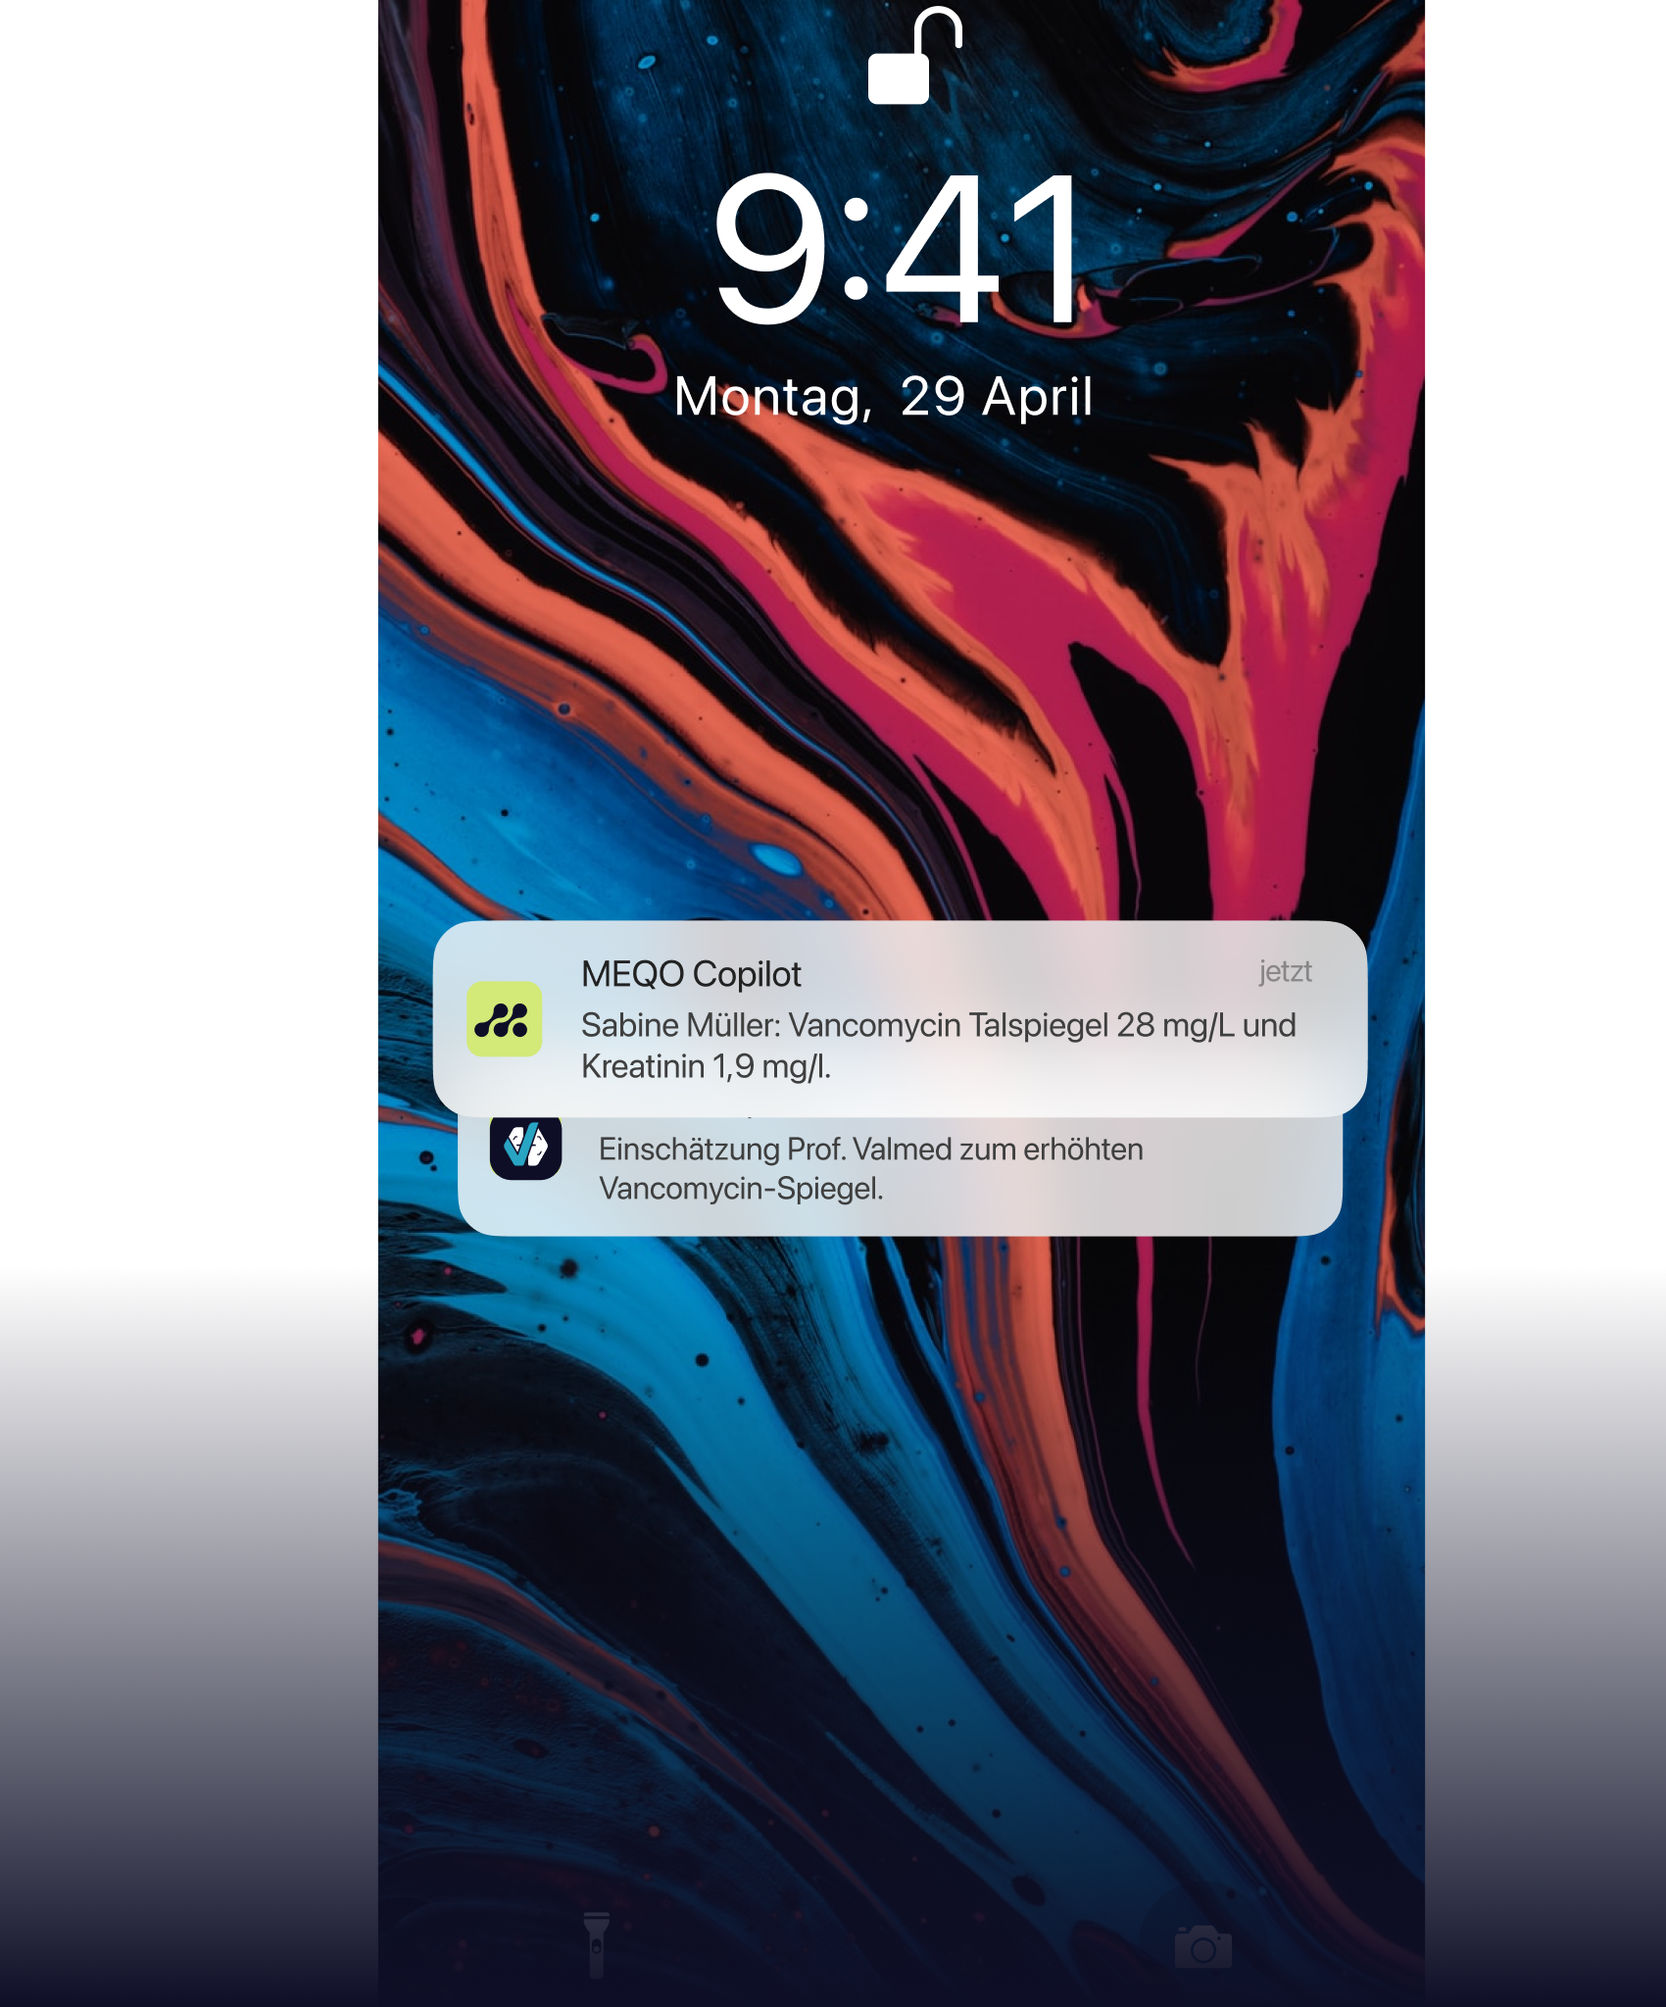
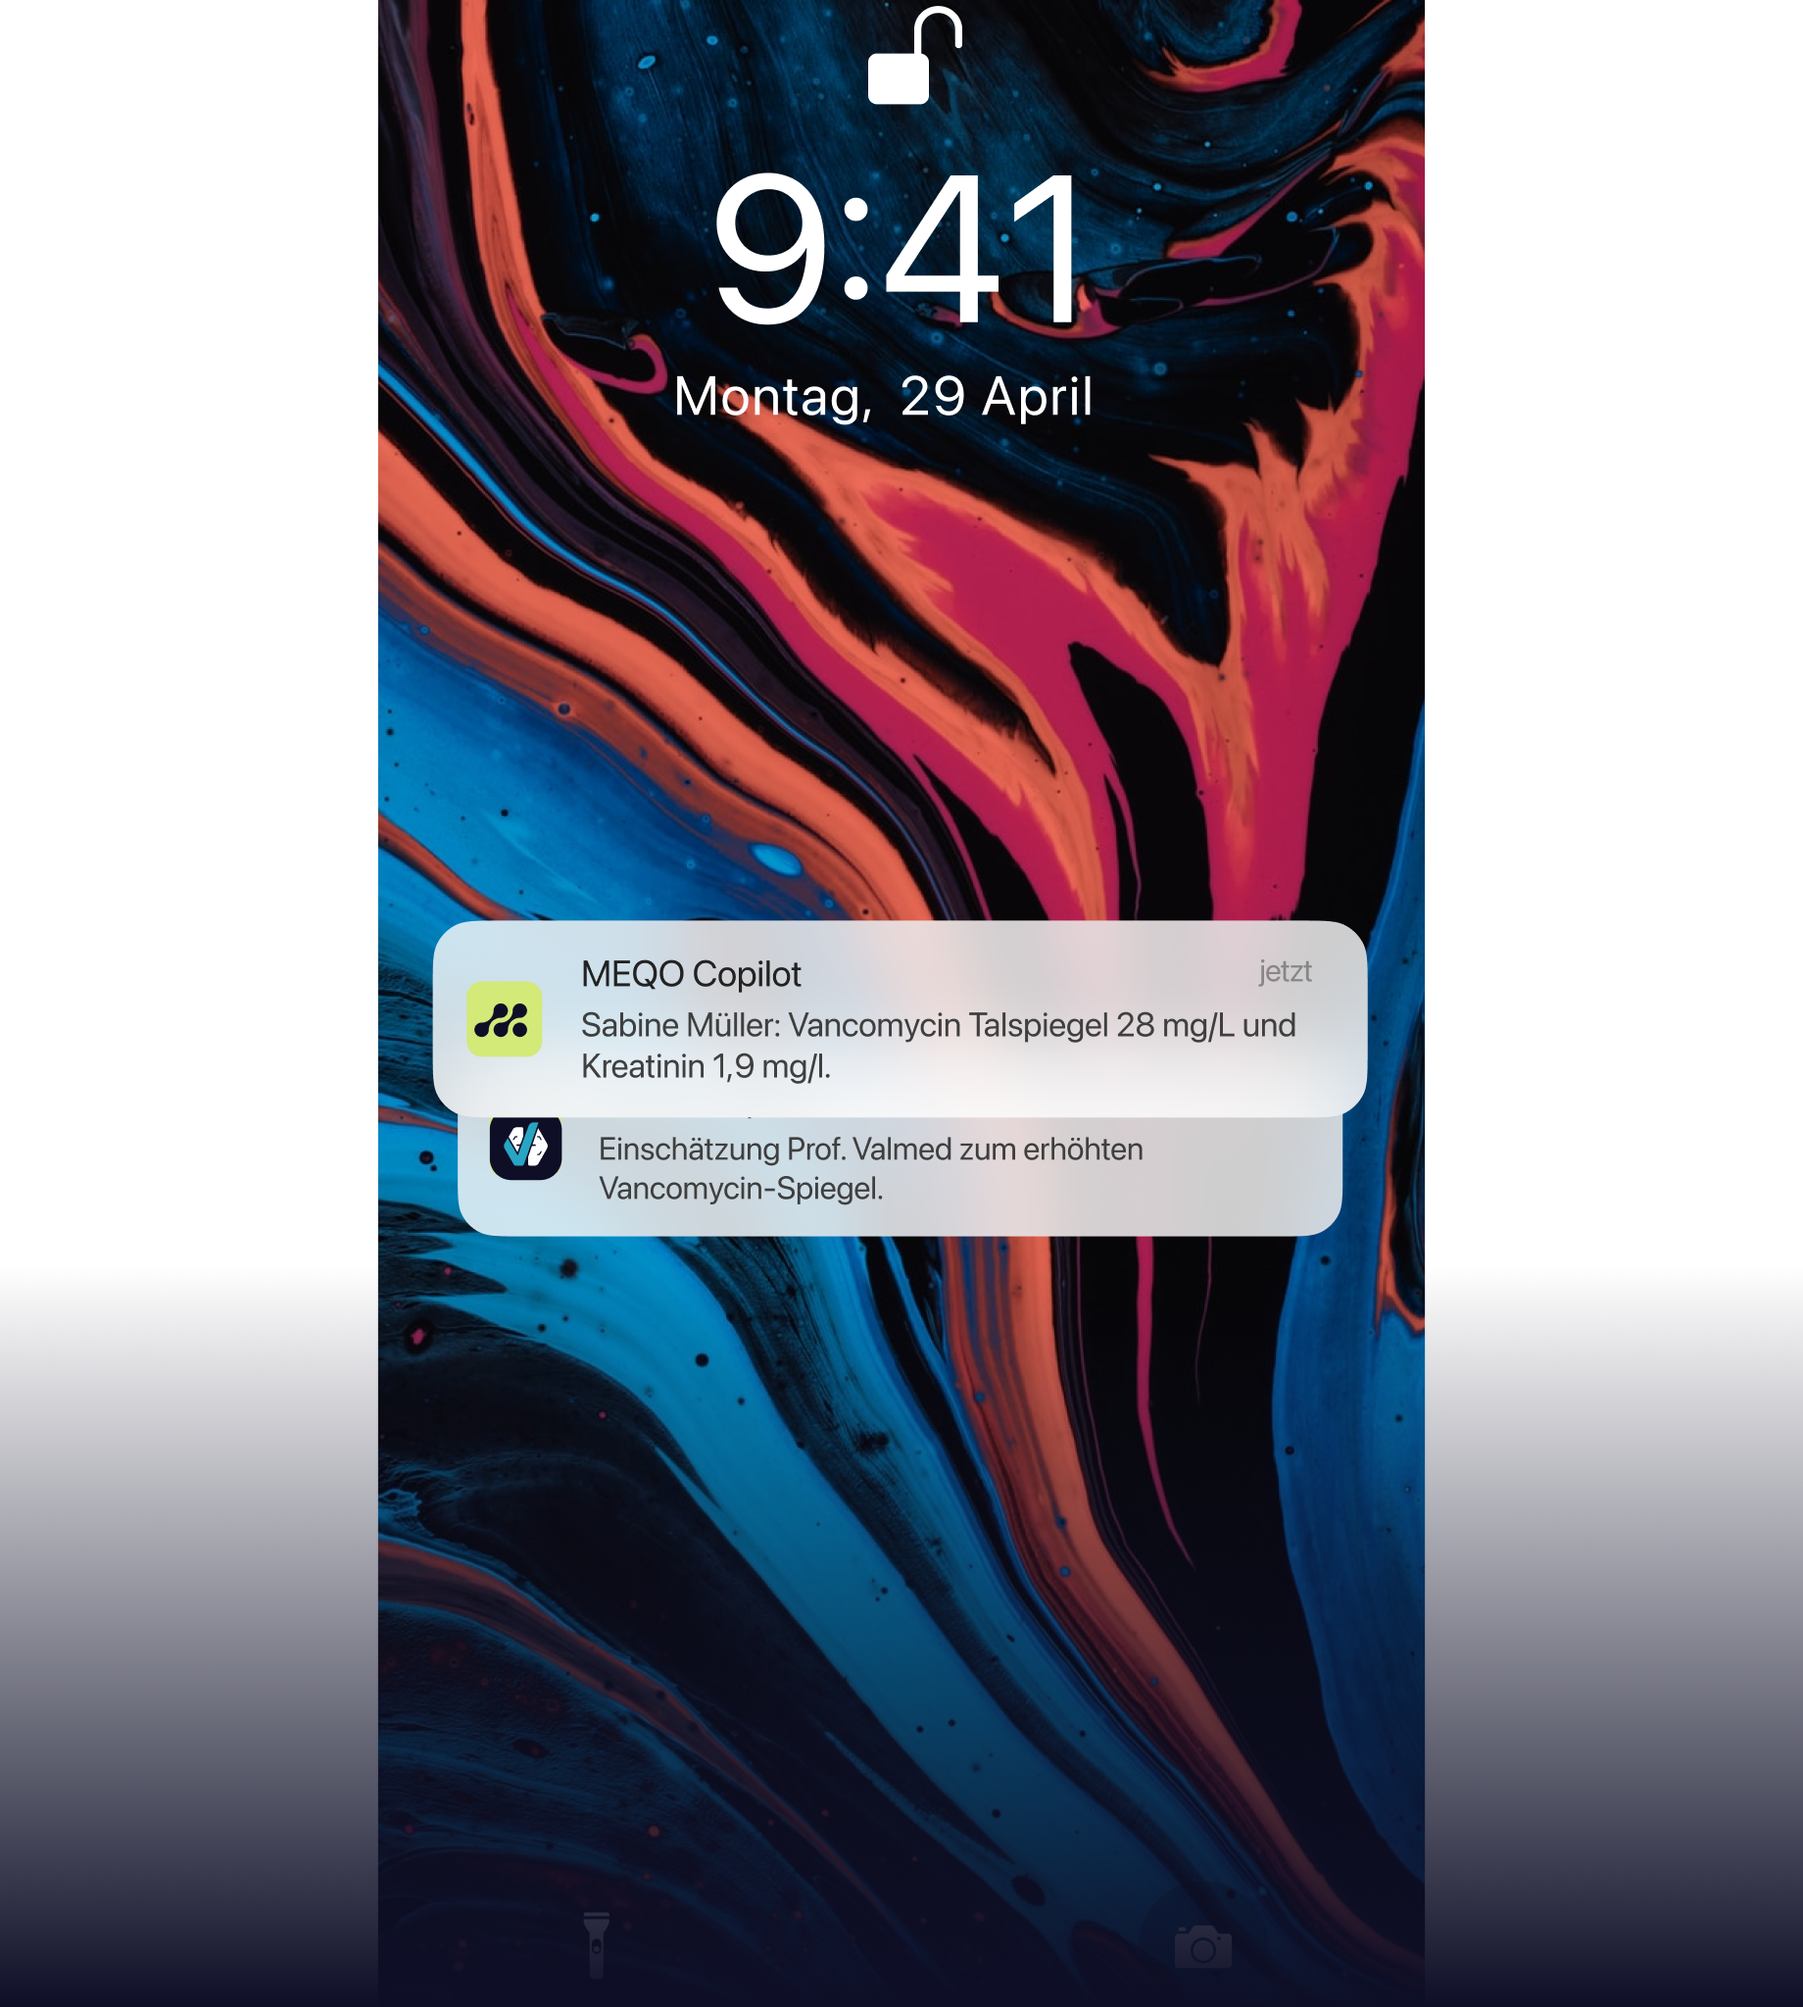
refactor: refine typography, layout constraints, and component spacing across the application

diff --git a/src/components/BottomNavigation.tsx b/src/components/BottomNavigation.tsx
@@ -40,7 +40,7 @@ export default function BottomNavigation({
   const iconFilter = isDark ? "brightness-0 invert" : "";
 
   // The centered bordered button style (Home, Grid)
-  const borderedButtonClass = `flex items-center justify-center gap-2 h-10 md:h-11 px-4 md:px-6 w-max min-w-[140px] md:min-w-[180px] rounded-xl border md:border-2 transition-colors ${isDark ? "border-white bg-[#0e0f27]/0" : "border-[#0e0f27]"
+  const borderedButtonClass = `flex items-center justify-center gap-2 h-10 md:h-11 px-2 md:px-6 w-max min-w-[100px] md:min-w-[180px] rounded-xl border md:border-2 transition-colors ${isDark ? "border-white bg-[#0e0f27]/0" : "border-[#0e0f27]"
     } ${hoverBg} ${generalText}`;
 
   // The unbordered button style (Prev, Next)
@@ -57,14 +57,14 @@ export default function BottomNavigation({
           {showPrev && (
             <Link href={prevHref} className={plainButtonClass}>
               <div className="h-4 w-4 md:h-5 md:w-5 relative shrink-0">
-                <Image 
-                  src="/icons/arrow-narrow-right.svg" 
-                  alt="Vorherige Seite" 
-                  fill 
-                  className={`object-contain rotate-180 ${iconFilter}`} 
+                <Image
+                  src="/icons/arrow-narrow-right.svg"
+                  alt="Vorherige Seite"
+                  fill
+                  className={`object-contain rotate-180 ${iconFilter}`}
                 />
               </div>
-              <span className="text-sm md:text-base font-semibold leading-relaxed">Vorherige Seite</span>
+              <span className="text-sm md:text-base font-semibold md:leading-relaxed">Vorherige Seite</span>
             </Link>
           )}
         </div>
@@ -74,26 +74,26 @@ export default function BottomNavigation({
         {showGrid && (
           <Link href={gridHref} className={borderedButtonClass}>
             <div className="h-4 w-4 md:h-5 md:w-5 relative shrink-0">
-              <Image 
-                src="/icons/grid-01.svg" 
-                alt="Alle Beispiele" 
-                fill 
-                className={`object-contain ${iconFilter}`} 
+              <Image
+                src="/icons/grid-01.svg"
+                alt="Alle Beispiele"
+                fill
+                className={`object-contain ${iconFilter}`}
               />
             </div>
-            <span className="text-sm md:text-base font-semibold leading-relaxed">Alle Beispiele</span>
+            <span className="text-sm md:text-base font-semibold md:leading-relaxed">Alle Beispiele</span>
           </Link>
         )}
         <Link href={homeHref} className={borderedButtonClass}>
           <div className="h-4 w-4 md:h-5 md:w-5 relative shrink-0">
-            <Image 
-              src="/icons/home-smile.svg" 
-              alt="Startseite" 
-              fill 
-              className={`object-contain ${iconFilter}`} 
+            <Image
+              src="/icons/home-smile.svg"
+              alt="Startseite"
+              fill
+              className={`object-contain ${iconFilter}`}
             />
           </div>
-          <span className="text-sm md:text-base font-semibold leading-relaxed">Startseite</span>
+          <span className="text-sm md:text-base font-semibold md:leading-relaxed">Startseite</span>
         </Link>
       </div>
 
@@ -103,11 +103,11 @@ export default function BottomNavigation({
             <Link href={nextHref} className={plainButtonClass}>
               <span className="text-sm md:text-base font-semibold leading-relaxed">Nächste Seite</span>
               <div className="h-4 w-4 md:h-5 md:w-5 relative shrink-0">
-                <Image 
-                  src="/icons/arrow-narrow-right.svg" 
-                  alt="Nächste Seite" 
-                  fill 
-                  className={`object-contain ${iconFilter}`} 
+                <Image
+                  src="/icons/arrow-narrow-right.svg"
+                  alt="Nächste Seite"
+                  fill
+                  className={`object-contain ${iconFilter}`}
                 />
               </div>
             </Link>

diff --git a/src/components/FeatureView.tsx b/src/components/FeatureView.tsx
@@ -20,14 +20,14 @@ export default function FeatureView({
     return (
       <>
         {/* End Page Main Content */}
-        <div className="absolute top-[45%] left-1/2 -translate-x-1/2 -translate-y-1/2 flex flex-col items-center z-10 w-full max-w-4xl">
+        <div className="absolute top-[45%] left-1/2 -translate-x-1/2 -translate-y-1/2 flex flex-col items-center z-10 w-full max-w-[789px]">
           <div className="bg-[#f4f5f8] rounded-[2rem] p-8 md:p-10 flex flex-col items-center text-center w-[90%] max-w-[460px] shadow-xl mx-auto">
             <div className="w-24 h-24 md:w-28 md:h-28 rounded-full overflow-hidden mb-6 shrink-0 bg-gray-200">
-              <Image 
-                src="/images/Mask group1.png" 
-                alt="Profile" 
-                width={112} 
-                height={112} 
+              <Image
+                src="/images/Mask group1.png"
+                alt="Profile"
+                width={112}
+                height={112}
                 className="w-full h-full object-cover"
               />
             </div>
@@ -50,7 +50,7 @@ export default function FeatureView({
             </div>
           </div>
           <div
-            className="mt-8 md:mt-12 w-full max-w-4xl relative text-2xl md:text-3xl lg:text-4xl leading-tight font-medium text-white text-center inline-block px-4"
+            className="mt-8 md:mt-12 w-full max-w-4xl relative text-2xl md:text-3xl  leading-tight font-medium text-white text-center inline-block px-4"
             dangerouslySetInnerHTML={{ __html: title }}
           />
         </div>
@@ -64,10 +64,10 @@ export default function FeatureView({
   return (
     <>
       {/* Wrapper inside main that takes the standard width */}
-      <div className="w-full max-w-7xl flex flex-col lg:flex-row text-left font-['Archivo'] relative z-0 items-center justify-start gap-8 lg:gap-12 flex-1 lg:h-full lg:min-h-0">
+      <div className="w-full max-w-7xl flex flex-col lg:flex-row text-left font-['Archivo'] relative z-0 items-center justify-start gap-2 lg:gap-12 flex-1 lg:h-full lg:min-h-0">
 
         {/* Texts Section */}
-        <div className="flex flex-col items-center justify-center md:justify-start gap-4 md:gap-6 text-[#d3e978] w-full lg:w-[420px] shrink-0 relative z-30 pt-8 lg:pt-0">
+        <div className="flex flex-col items-start justify-center md:justify-start gap-4 md:gap-6 text-[#d3e978] w-full lg:w-[420px] shrink-0 relative z-30 pt-8 lg:pt-0">
           <div className="flex flex-col gap-2">
             <div className="text-base md:text-lg leading-tight font-semibold">
               {category}

diff --git a/src/app/(b)/b01/page.tsx b/src/app/(b)/b01/page.tsx
@@ -22,12 +22,12 @@ export default function B01Page() {
   return (
     <div className="flex flex-col justify-between w-full flex-1">
       <div className="w-full max-w-5xl flex flex-col items-start gap-3 md:gap-4 text-left">
-        <h1 className="w-full text-lg md:text-xl lg:text-2xl leading-tight font-semibold text-[#0e0f27]">
-          MEQO Copilot &ndash; die intelligente Schicht <br /> über Ihrer bestehenden IT
+        <h1 className="w-full text-lg md:text-xl lg:text-3xl leading-tight font-medium text-[#0e0f27] md:mb-6 mb-3">
+          MEQO Copilot &ndash; die intelligente Schicht über Ihrer bestehenden IT
         </h1>
 
         {/* Video Player Area */}
-        <div className="w-full h-[200px] md:h-[260px] lg:h-[340px] relative rounded-2xl md:rounded-3xl overflow-hidden transform-gpu [-webkit-mask-image:-webkit-radial-gradient(white,black)]">
+        <div className="w-full md:mb-4 mb-2  h-[200px] md:h-[260px] lg:h-[340px] relative rounded-2xl md:rounded-3xl overflow-hidden transform-gpu [-webkit-mask-image:-webkit-radial-gradient(white,black)]">
           {/* Custom styles to scale up native video controls for touch display */}
           <style dangerouslySetInnerHTML={{
             __html: `
@@ -75,14 +75,14 @@ export default function B01Page() {
         {/* Text Content */}
         <div className="w-full flex flex-col gap-3 md:gap-4 text-xs md:text-sm lg:text-base leading-relaxed font-normal">
           <p>
-            MEQO Copilot verbindet Ihre bestehenden Systeme &ndash; <br />
-            <span className="font-semibold">KIS, Labor, Radiologie und Vitaldaten</span> &ndash; und macht daraus eine <br />
-            handlungsfähige Versorgungsintelligenz. Kein weiteres System, sondern als <br />
-            intelligente Schicht über Ihrer bestehenden IT.
+            MEQO Copilot verbindet Ihre bestehenden Systeme &ndash;{" "}
+            <span className="font-semibold">KIS, Labor, Radiologie und Vitaldaten</span>{" "}
+            &ndash; und macht daraus eine handlungsfähige Versorgungsintelligenz. Kein weiteres System,
+            sondern als intelligente Schicht über Ihrer bestehenden IT.
           </p>
           <p>
-            Wir unterstützen nicht nur die intelligente Automatisierung von Prozessen, <br />
-            sondern machen auch Expertenwissen breit verfügbar und für andere <br />
+            Wir unterstützen nicht nur die intelligente Automatisierung von Prozessen,
+            sondern machen auch Expertenwissen breit verfügbar und für andere
             Anwender:innen nutzbar.
           </p>
         </div>

diff --git a/src/app/page.tsx b/src/app/page.tsx
@@ -6,7 +6,7 @@ export default function Page() {
     <div className="w-full flex-1 flex flex-col justify-between gap-4 pb-2 md:pb-4">
       <div className="w-full flex flex-col items-center gap-4 md:gap-6 flex-1 min-h-0">
         <div className="w-full flex flex-col items-center gap-2 md:gap-3 shrink-0">
-          <h1 className="w-full relative text-2xl md:text-3xl lg:text-4xl leading-tight font-semibold text-center">
+          <h1 className="w-full relative text-xl md:text-3xl lg:text-4xl leading-tight font-semibold text-center">
             Entdecken Sie unsere agentenbasierte Versorgungsintelligenz
           </h1>
           <p className="w-full max-w-2xl relative text-sm md:text-base lg:text-lg leading-relaxed font-light inline-block text-center">
@@ -15,7 +15,7 @@ export default function Page() {
             Erstellung individueller Agenten.
           </p>
         </div>
-        
+
         <div className="w-full flex-1 relative min-h-[160px] text-left text-sm md:text-base rounded-2xl md:rounded-3xl overflow-hidden shadow-sm">
           <Image
             className="absolute top-0 left-0 w-full h-full object-cover"
@@ -49,7 +49,7 @@ export default function Page() {
 
       <div className="w-full flex flex-col items-center gap-4 md:gap-6 shrink-0 mt-2 md:mt-4">
         <div className="w-full flex flex-col items-center gap-1 md:gap-2 text-center">
-          <h2 className="w-full relative text-2xl md:text-3xl lg:text-4xl leading-tight font-semibold">
+          <h2 className="w-full relative text-xl md:text-3xl lg:text-4xl leading-tight font-semibold">
             Spürbare Entlastung für Sie, Ihr Team <br />
             und die gesamte Versorgung
           </h2>

diff --git a/src/app/layout.tsx b/src/app/layout.tsx
@@ -44,11 +44,11 @@ export default function RootLayout({
 }>) {
   return (
     <html lang="de" className={`light ${archivo.variable}`} style={{ colorScheme: 'light' }}>
-      <body className="flex flex-col bg-gray-100 font-sans text-sm antialiased select-none overflow-x-hidden lg:h-screen lg:overflow-hidden min-h-screen overflow-y-auto" style={{ overscrollBehavior: 'none' }}>
+      <body className="flex flex-col bg-gray-100 font-sans text-sm antialiased select-none overflow-x-hidden lg:h-screen  min-h-screen overflow-y-auto" style={{ overscrollBehavior: 'none' }}>
         <ThemeWrapper>
           <NavBar />
           {/* position:relative on the container above means the absolute arrows anchor here */}
-          <main className="flex-1 max-w-[789px] mx-auto w-full px-4 md:px-6 mt-20 md:mt-24 pt-2 pb-2 md:pb-4 flex flex-col items-center lg:min-h-0 lg:overflow-hidden">
+          <main className="flex-1 max-w-[789px] mx-auto w-full px-4 md:px-6 mt-20 md:mt-24 pt-2 pb-2 md:pb-4 flex flex-col items-center lg:min-h-0 ">
             <KioskShell>
               {children}
             </KioskShell>
